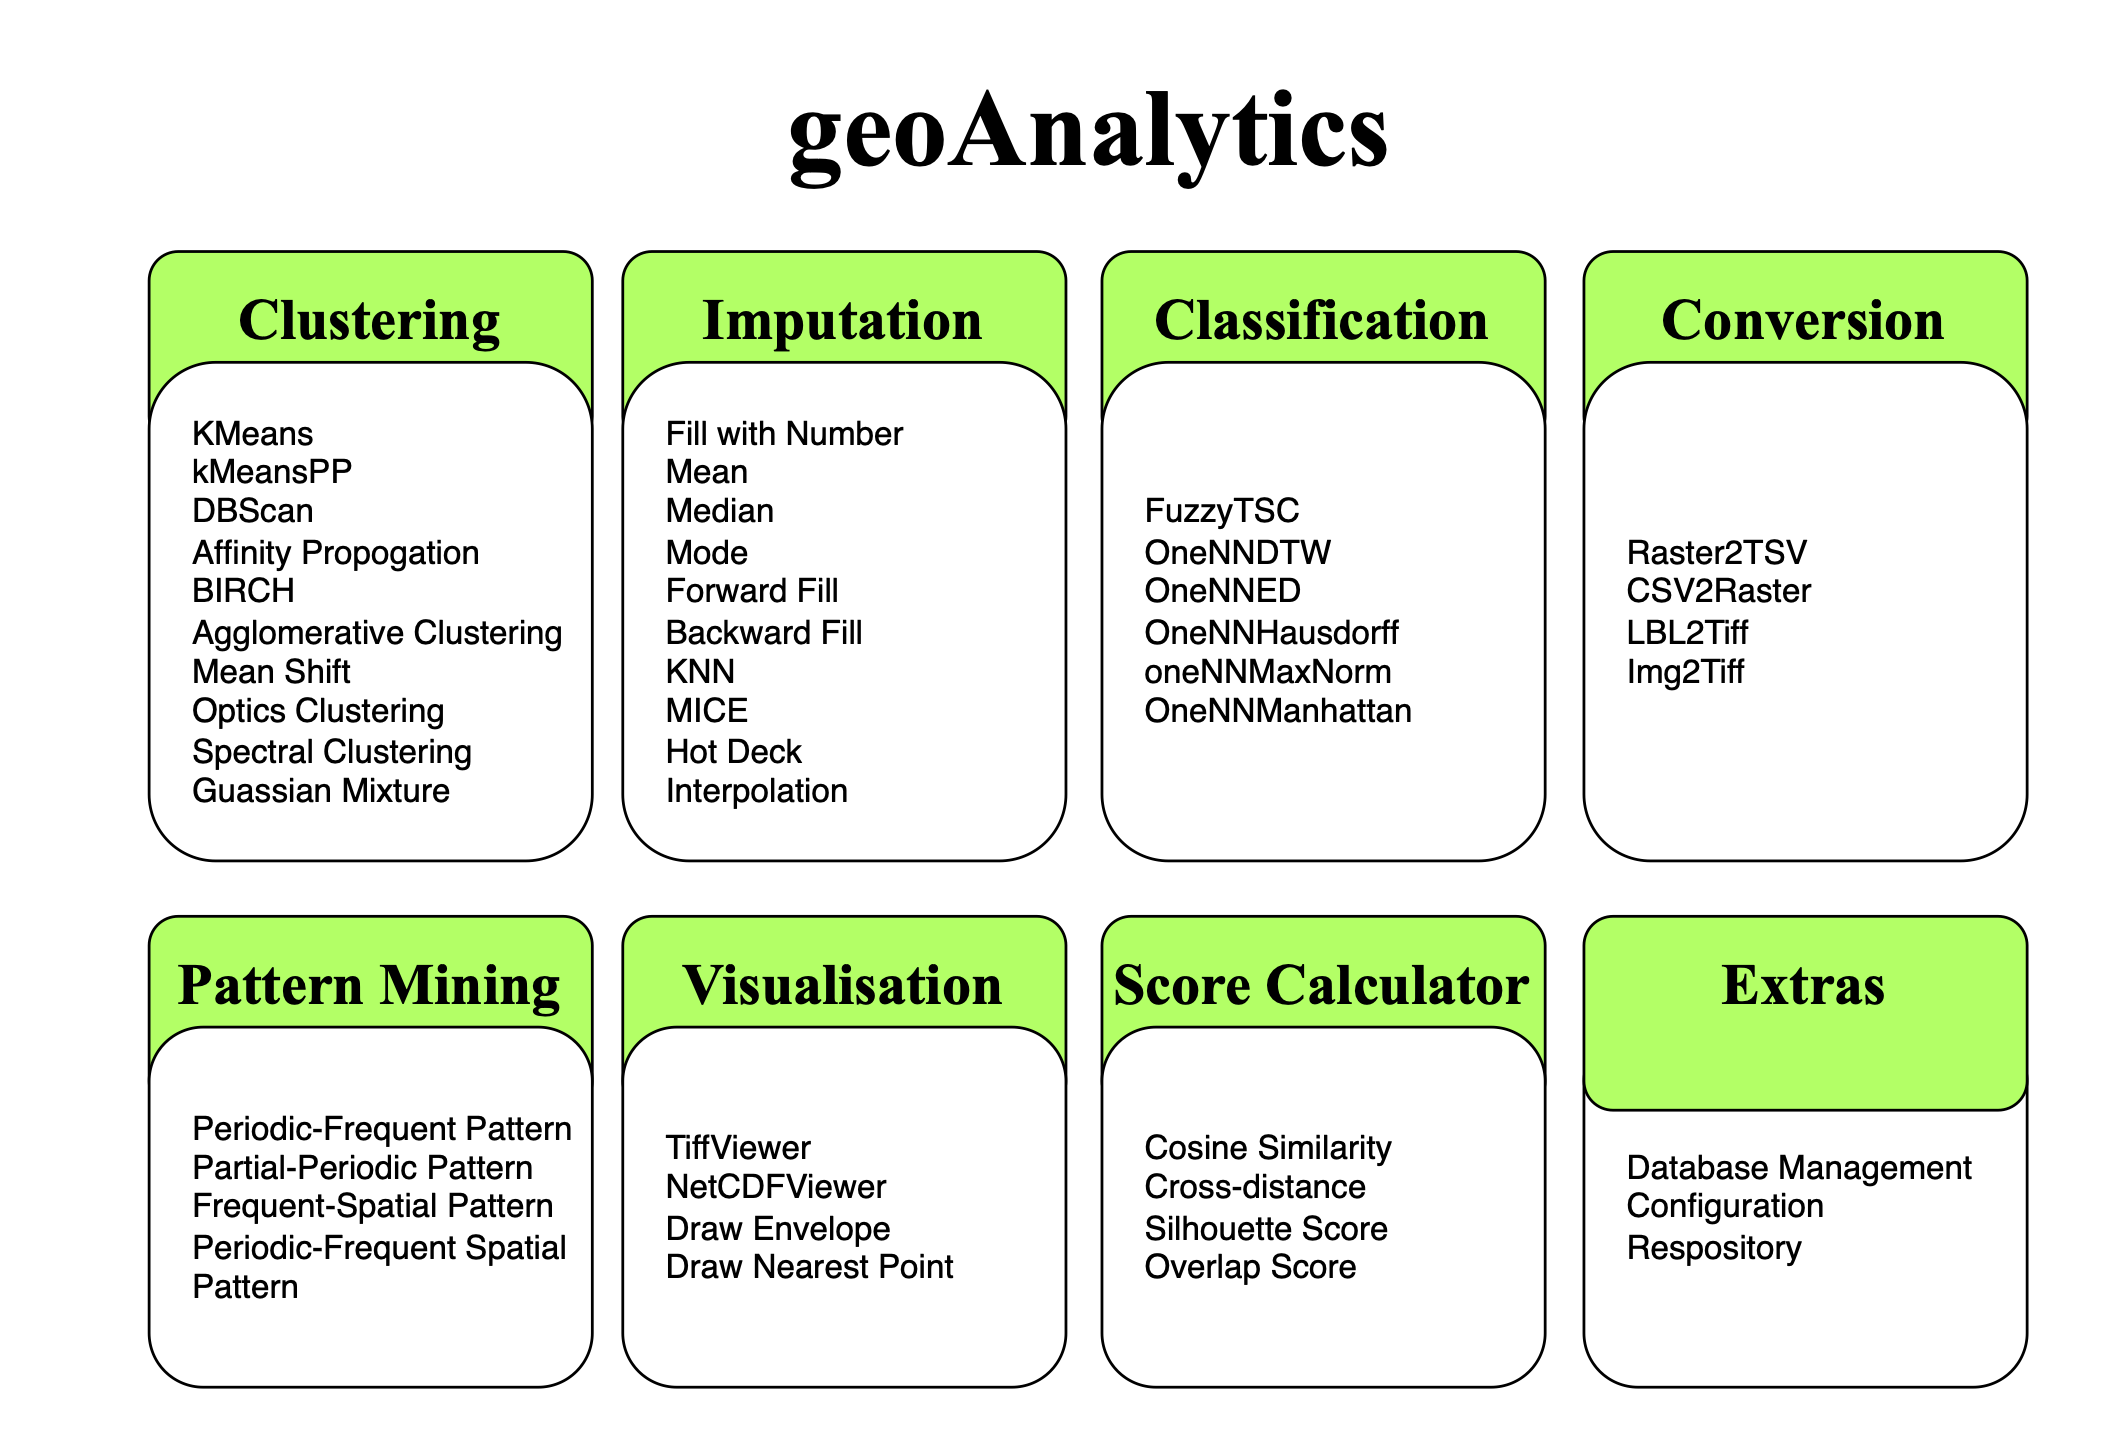
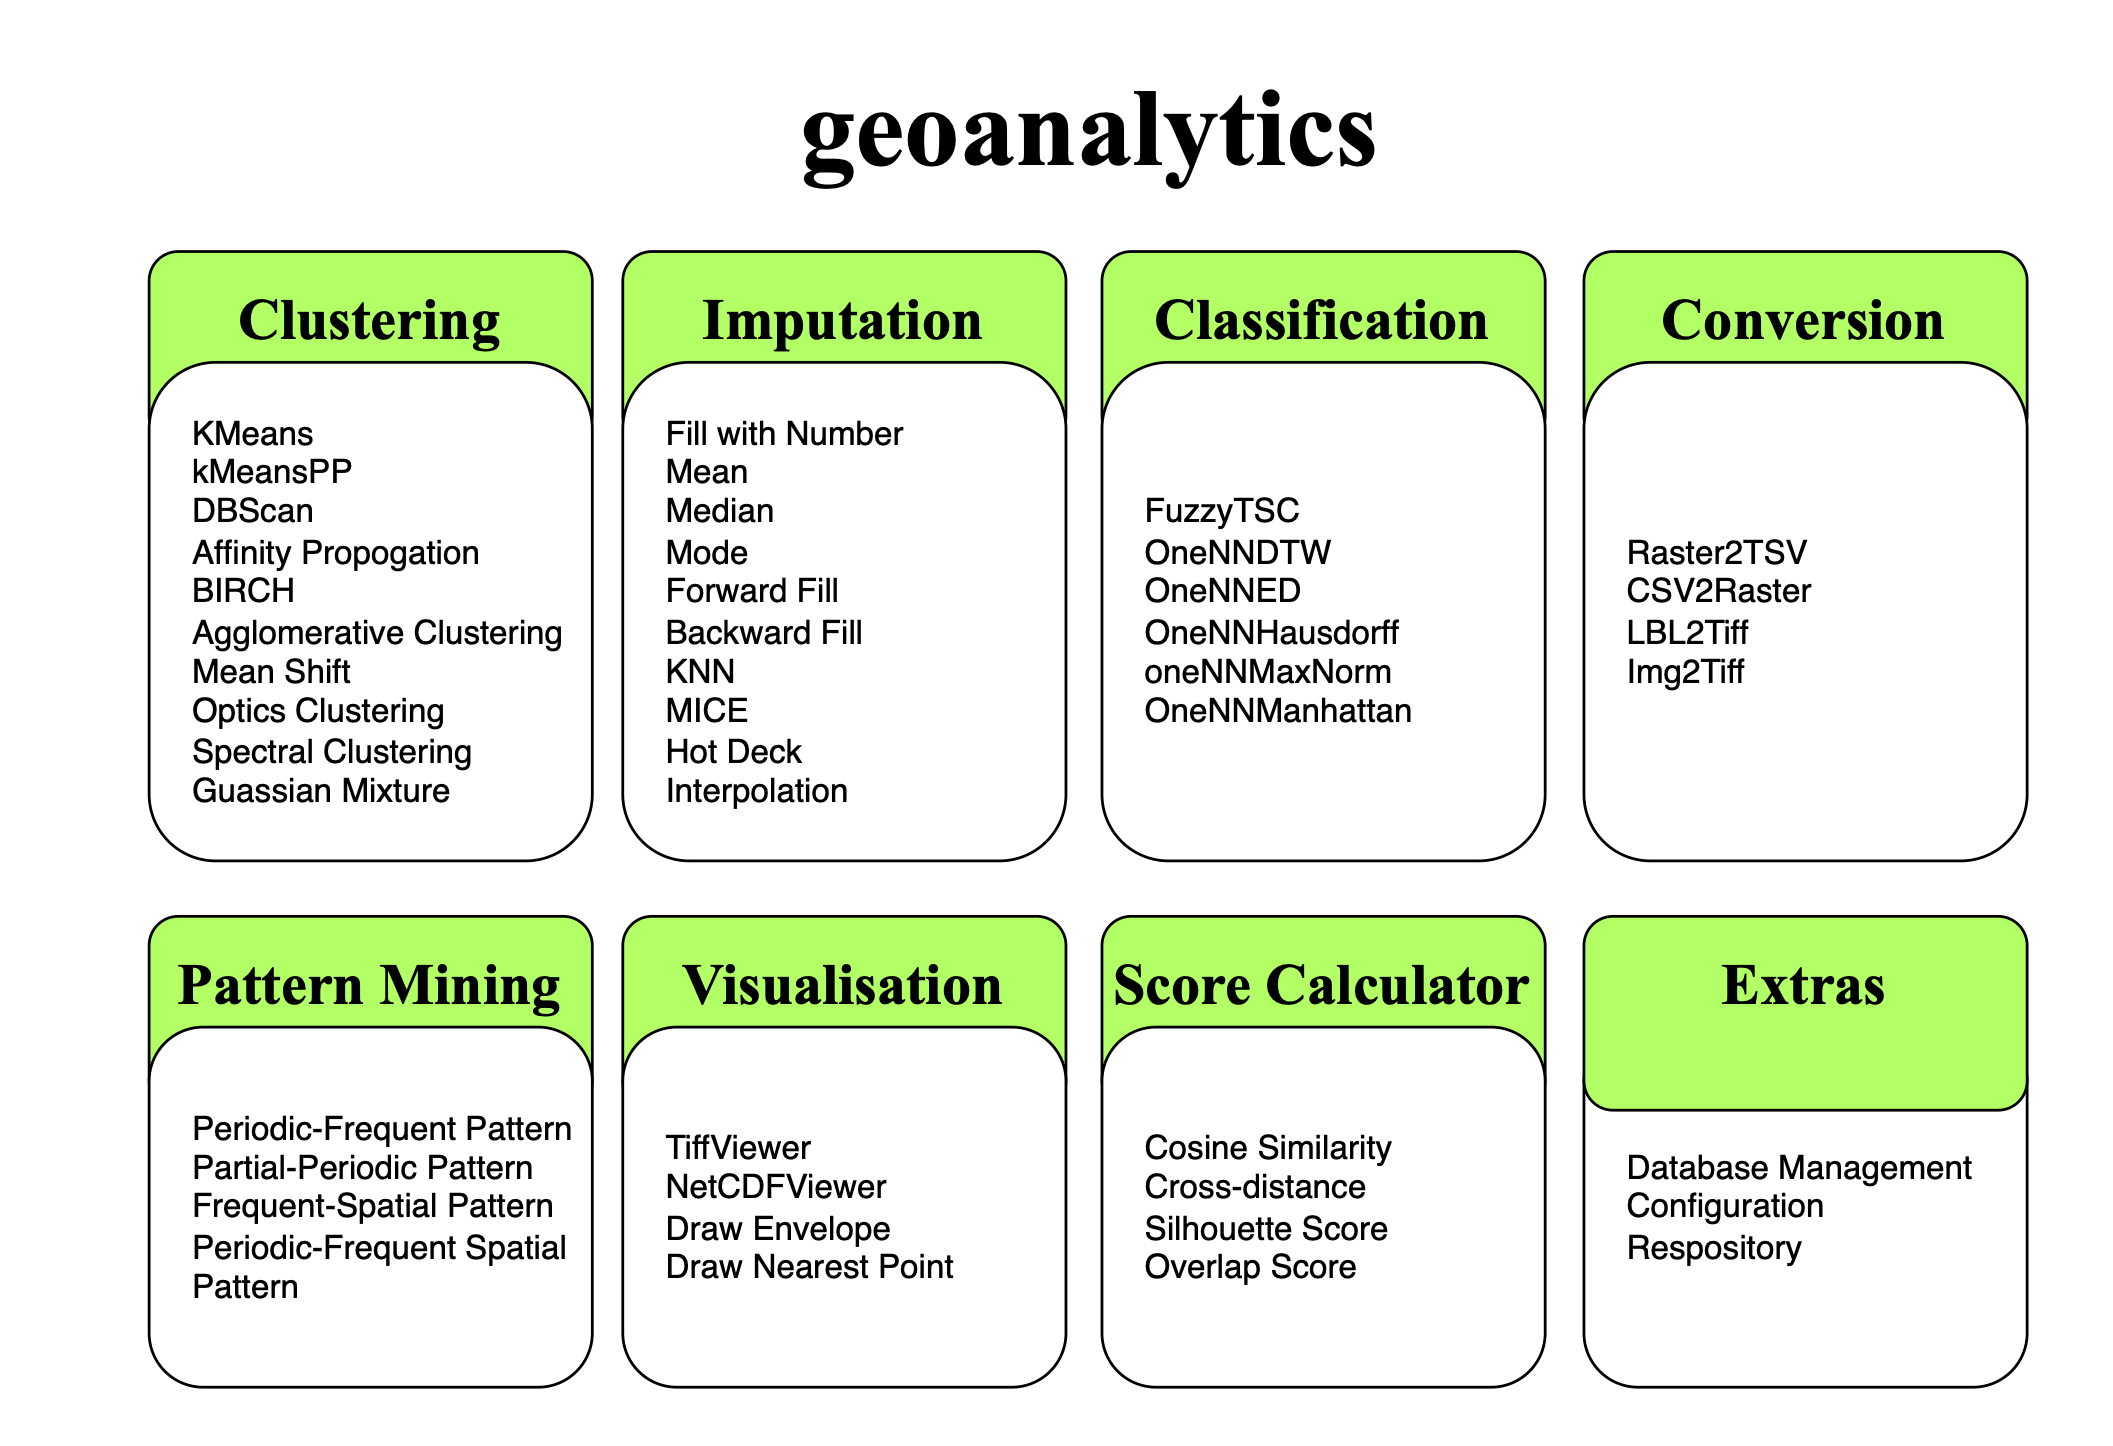
#updated the JOSS paper

Changed region(s): [[0.3748, 0.0622, 0.6559, 0.1556]]

diff --git a/JOSSPaper/paper.md b/JOSSPaper/paper.md
@@ -38,25 +38,24 @@ aas-journal: Astrophysical Journal <- The name of the AAS journal.
 ---
 
 
-
 # Summary
 
-Many existing GIS and machine learning tools lack advanced algorithms and are often difficult to access or integrate. These limitations hinder researchers from conducting efficient and scalable geospatial analysis. To address these challenges, this paper proposes geoanalytics, an open-source Python library developed explicitly for geospatial data analysis. The library offers more than 50 algorithms that cover a wide range of tasks, including clustering, classification, imputation, pattern mining, and data visualization. It is platform-independent and can be easily installed via PyPI. The library is compatible with popular environments like Google Colab and Jupyter Notebook. It supports both raster and tabular data formats, including GeoTIFF and CSV. Additionally, the results generated by geoAnalytics can be exported in widely used formats such as CSV and raster, ensuring smooth integration with other GIS software.
+Existing GIS software lack advanced machine learning algorithms and do not provide flexibility to incorporate the state-of-the-art machine learning tools. This limitations hinder researchers from conducting efficient and scalable geospatial analysis. To address these challenges, this paper proposes geoanalytics, an open-source Python library developed explicitly for geospatial data analysis. The library offers more than 50 algorithms that cover a wide range of knowledge discovery tasks, including clustering, classification, imputation, pattern mining, and data visualization. It is platform-independent and can be easily installed via PyPI. The library is compatible with popular environments like Google Colab and Jupyter Notebook. Our library accepts data in various formats such as raster, vector, and tabular data. More important, the results generated by geoanalytics can be exported in widely used formats such as CSV and raster, ensuring smooth integration with other GIS software.
 
 
 # Background in Geo-Spatial Analysis
 
-Many widely used GIS platforms, such as ArcGIS [@ArcGIS], QGIS [@QGIS], and ENVI [@ENVI], provide tools for raster data analysis. Although feature-rich, these platforms often rely on traditional algorithms that limit analytical depth and accuracy. A notable example is the continued use of k-Means clustering in ENVI [@li2020comparison] and ArcGIS [@bennett2018machine]. These methods were developed in the 1970s and do not solve key problems like proper cluster initialization, which affects the quality of the results.
+Many widely used GIS platforms, such as ArcGIS [@ArcGIS], QGIS [@QGIS], and ENVI [@ENVI], provide tools for raster data analysis. Although feature-rich, these platforms often rely on age-old traditional algorithms that limit analytical depth and accuracy. A notable example is the continued use of k-Means clustering in ENVI [@li2020comparison] and ArcGIS [@bennett2018machine]. This methods was developed in the 1970s and do not solve key problems like proper cluster initialization, which affects the quality of the results.
 
 These limitations have prompted researchers to develop improved clustering strategies. For example, Pasi and Sami [@franti2019much] proposed enhanced initialization methods that significantly improve clustering performance. However, these advancements have yet to be integrated into most GIS software. Additionally, some tools like Raster Miner [@veena2024rasterminer] offer raster processing capabilities but still lack advanced analytical methods. Consequently, users often depend on less effective tools that are inadequate for analyzing complex geospatial data.
 
-Therefore, to fully leverage the potential of geospatial data and overcome these challenges, GIS software must integrate modern machine learning and deep learning techniques. Such methods can significantly improve the accuracy and reliability of geospatial analysis, making GIS platforms more capable of addressing today’s complex and data-intensive demands.
+Therefore, to fully leverage the potential of geospatial data and overcome these challenges, GIS software must integrate modern machine learning and deep learning techniques. Such approches can significantly improve the accuracy and reliability of geospatial analysis, making GIS platforms more capable of addressing today’s complex and data-intensive demands.
 
 # Statement of need
 
-Most existing machine learning libraries, including Scikit-learn [@kramer2016scikit] and TensorFlow [@developers2022tensorflow], are not explicitly designed to handle the unique spatial and temporal patterns inherent in geospatial data. Similarly, traditional GIS software such as ArcGIS, QGIS, and ENVI relies heavily on older algorithms that limit the accuracy and depth of geospatial analysis. Furthermore, there is a scarcity of open-source tools that integrate recent advances in clustering, classification, imputation, and pattern mining tailored for geospatial applications. This gap hinders reproducibility and restricts broader adoption within the research community.
+Most existing machine learning libraries, including Scikit-learn [@kramer2016scikit] PAMI [@PAMI] and TensorFlow [@developers2022tensorflow], are not explicitly designed to handle the unique spatial and temporal patterns inherent in geospatial data. Similarly, traditional GIS software such as ArcGIS, QGIS, and ENVI relies heavily on older algorithms that limit the accuracy and depth of geospatial analysis. Furthermore, there is a scarcity of open-source tools that integrate recent advances in clustering, classification, imputation, and pattern mining tailored for geospatial applications. This gap hinders reproducibility and restricts broader adoption within the research community.
 
-To bridge these limitations, the geoanalytics library [@GeoAnalytics] was developed as an open-source Python package tailored for geospatial data analysis. It is an open-source Python package with over 50 algorithms explicitly designed for geospatial analysis. The library supports both raster and tabular data formats. It works well with platforms like Jupyter Notebook and Google Colab and can be used through scripts or Python modules.
+To bridge these limitations, the geoanalytics library [@GeoAnalytics] was developed as an open-source Python package tailored for geospatial data analysis. It is an open-source Python package with over 50 algorithms explicitly designed for geospatial analysis. The library supports data in raster, vector and tabular data formats. It works well with platforms like Jupyter Notebook and Google Colab.
 
 By providing access to modern and specialized geospatial algorithms, geoAnalytics empowers researchers, data scientists, and practitioners to analyze complex geospatial datasets with greater accuracy, efficiency, and reproducibility. This makes it a valuable tool for advancing geospatial research and applications.
 
@@ -78,7 +77,7 @@ The Architecture of the geoanalystics library is outlined as follows:
 
 3. **Algorithm Type**: This layer determines the types of information that can be extracted using the available algorithms, which range from basic techniques to more advanced analytical methods. Figure 2 illustrates a comprehensive overview of the algorithms included in the package.
 
-4. **Extras**:  geoanalytics also provides an “extras” folder, which offers extra functionalities for storage and access to the data in the Postgres database. The functionalities include *creating repositories, extracting raster data, transforming it into different ﬁle formats, and enabling operations like inserting, deleting, and updating band values*.
+4. **Extras**:  geoanalytics also provides an “extras” folder, which offers extra functionalities for storage and access to the data in the Postgres database. The functionalities include *creating database repositories, extracting raster data, transforming it into different ﬁle formats, and enabling operations like inserting, deleting, and updating band values*.
  
 ![List of algorithms](<Figures/list_of_algos.png>){ width=95% }
 
@@ -86,7 +85,7 @@ The Architecture of the geoanalystics library is outlined as follows:
 
 ### Geospatial & Spatiotemporal Data Analysis and Visualization
 
-This area focuses on analyzing spatial data from sources like satellite imagery, remote sensing, and georeferenced measurements. The library supports raster and tabular formats such as GeoTIFF, NetCDF, and CSV. It includes tools for preprocessing, such as handling missing values, extracting spatial coordinates, and converting raster to tabular form. Users can apply clustering, classification, and pattern mining methods for geospatial contexts. Clustering algorithms like k-Means++, DBSCAN, BIRCH, Spectral Clustering, and Mean Shift are used to group data based on spatial, spectral, or temporal similarities. These are useful for land cover classification, urban development tracking, and anomaly detection. 
+This area focuses on analyzing spatial data from sources like satellite imagery, remote sensing, and georeferenced measurements. The library data in supports raster, vector and tabular formats such as GeoTIFF, NetCDF, and CSV. It includes tools for preprocessing, such as handling missing values, extracting spatial coordinates, and converting raster to tabular form. Users can apply clustering, classification, imputation and pattern mining methods for geospatial contexts. Clustering algorithms like k-Means++, DBSCAN, BIRCH, Spectral Clustering, and Mean Shift are used to group data based on spatial, spectral, or temporal similarities. These are useful for land cover classification, urban development tracking, and anomaly detection. 
 
 Spatiotemporal mining techniques discover patterns that recur over time and space. These are applied in climate monitoring and planetary surface studies. Advanced methods also support the identification of periodic and partially periodic spatial patterns. Visualization features such as plotting clusters, nearest points, and spatial boundaries support exploratory analysis and interpretation. The library also integrates with PostgreSQL/PostGIS, allowing users to insert, update, or convert raster data directly from databases.
 
@@ -117,9 +116,9 @@ Figure 3 illustrates a complete preprocessing-to-visualization pipeline using th
 
 * *(d) TIFF Viewers*: The final clustered outputs are visualized in two styles: jet scale for intuitive color-coded segmentation and grayscale for intensity-based representation. These help interpret the clustering results in the context of spatial features and variations across the lunar surface.
 
-This test case highlights the end-to-end capability of geoAnalytics in transforming geospatial raster data into interpretable analytical outputs suitable for Earth and planetary science research.
+This test case highlights the end-to-end capability of geoanalytics in transforming geospatial raster data into interpretable analytical outputs suitable for Earth and planetary science research.
 
-The execution code for this test case is made publicly available on the geoAnalytics repository in Github [@GeoAnalytics]
+The execution code for this test case is made publicly available on the geoanalytics repository in Github [@GeoAnalytics]
 
 
 # References
